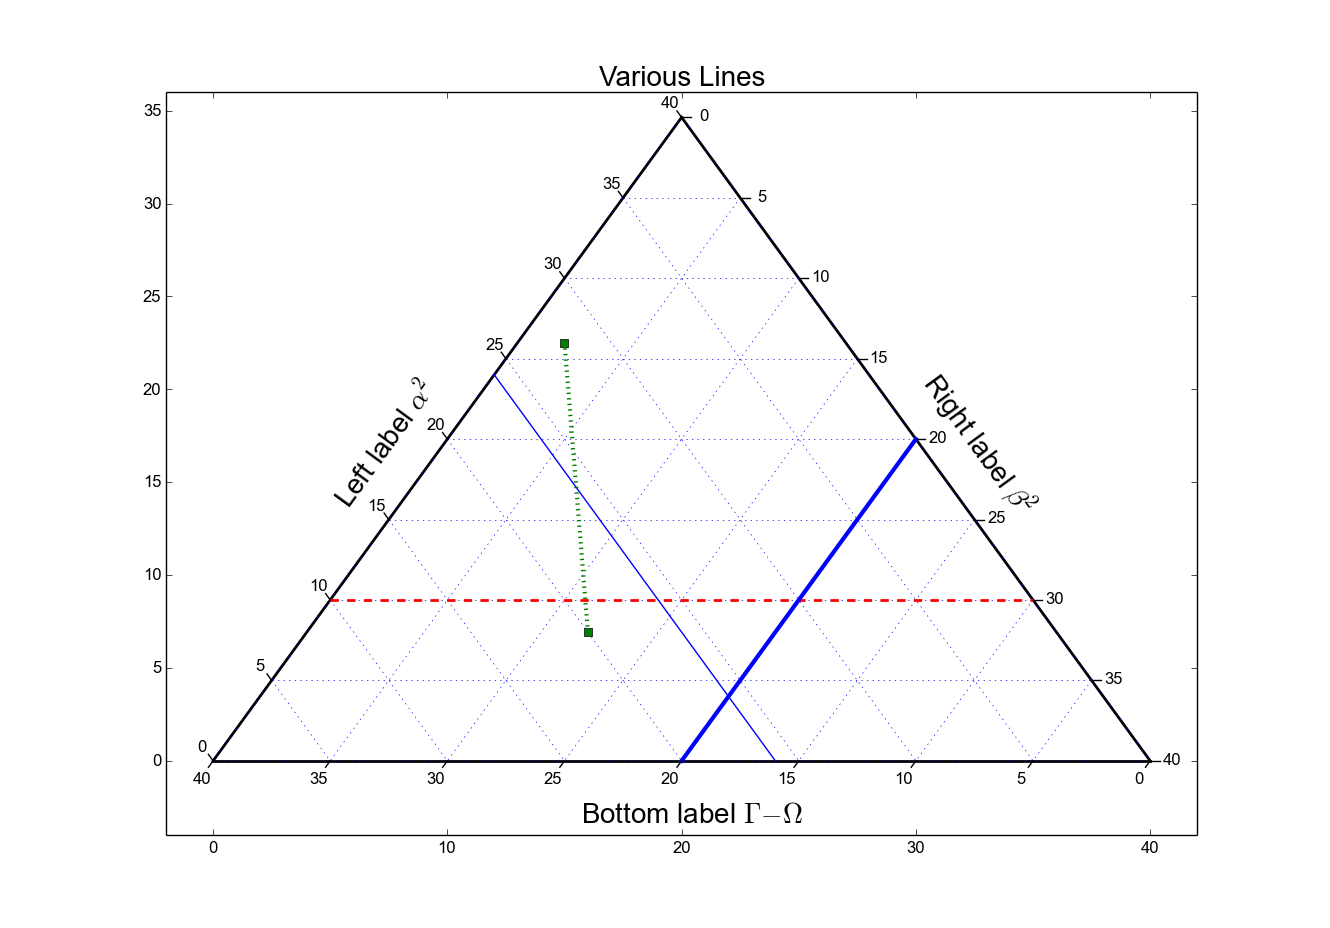
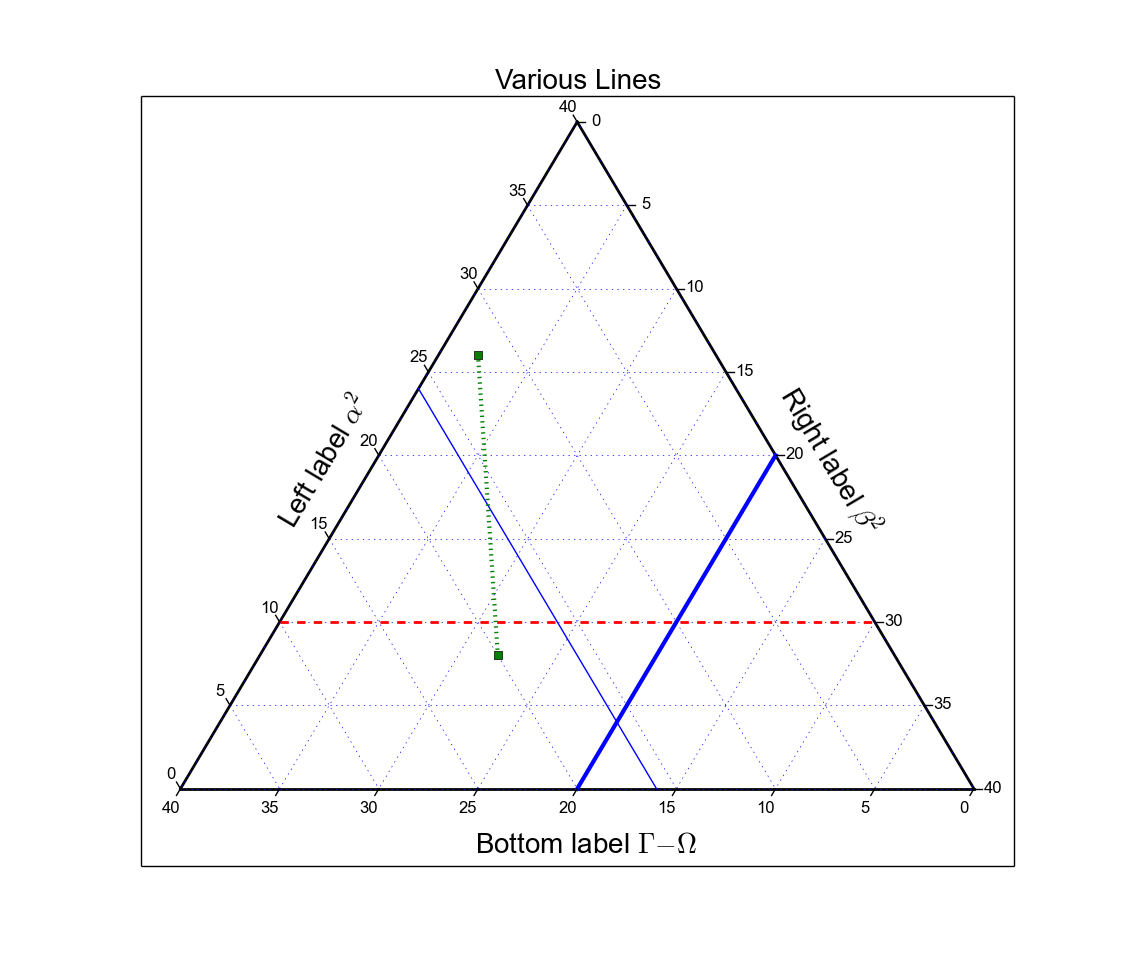
Update readme images

diff --git a/examples.py b/examples.py
@@ -135,6 +135,8 @@ if __name__ == '__main__':
     p1 = (12,8,10)
     p2 = (2, 26, 2)
     ternary_ax.line(p1, p2, linewidth=3., marker='s', color='green', linestyle=":")
+
+    ternary_ax.clear_matplotlib_ticks()
     ternary_ax.ticks(axis='lbr', color="black", multiple=5, linewidth=1)
 
     ### Scatter Plot
@@ -149,6 +151,7 @@ if __name__ == '__main__':
     points = random_points(30, scale=scale)
     ternary_ax.scatter(points, marker='D', color='green', label="Green Diamonds")
     ternary_ax.legend()
+    ternary_ax.clear_matplotlib_ticks()
     ternary_ax.ticks(axis='lbr', color="black", multiple=5, linewidth=1)
 
     ## Sample trajectory plot
@@ -170,6 +173,7 @@ if __name__ == '__main__':
     points = [(y,z,x) for (x,y,z) in points]
     tax.plot_colored_trajectory(points, cmap="hsv", linewidth=2.0)
     tax.legend()
+    ternary_ax.clear_matplotlib_ticks()
     tax.ticks(axis='lbr', color="black", linewidth=1, multiple=0.1)
 
     pyplot.show()

diff --git a/README.md b/README.md
@@ -10,6 +10,8 @@ Most ternary functions expect the simplex to be partititioned into some number o
 # Gallery
 
 <div style="text-align:center">
+
+<img src ="/readme_images/boundary_and_gridlines.png" width="150" height="150"/>
 <img src ="/readme_images/various_lines.png" width="150" height="150"/>
 <img src ="/readme_images/colored_trajectory.png" width="150" height="150"/>
 <img src ="/readme_images/scatter.png" width="150" height="150"/>
